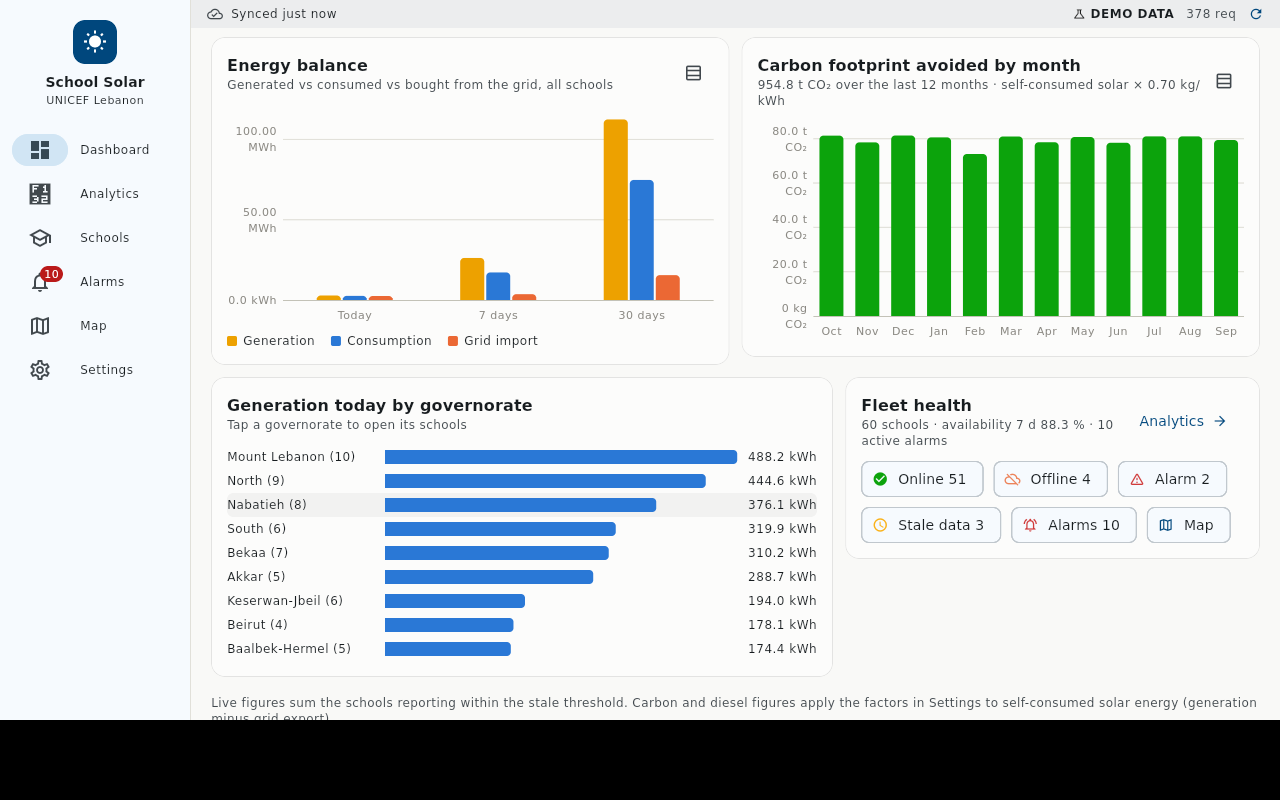
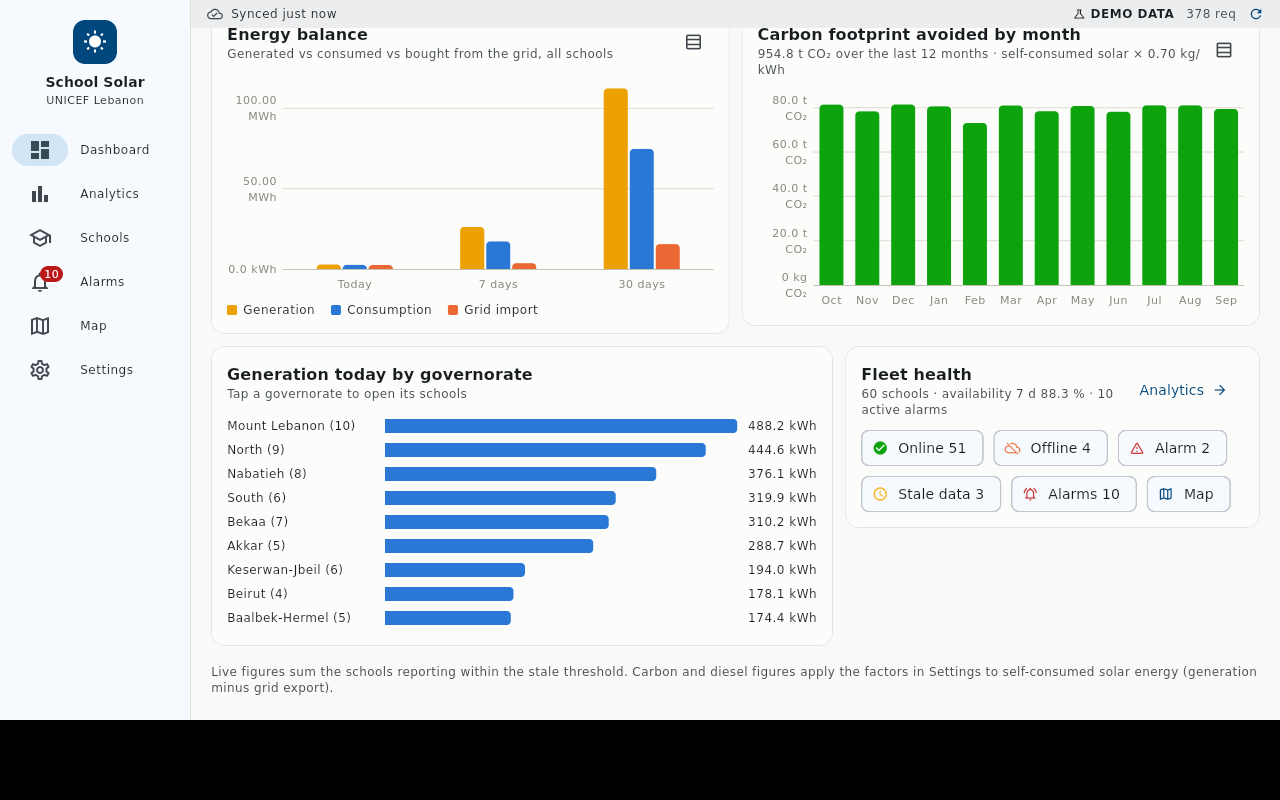
Screenshots for the landing dashboard and analytics tab; README screenshot table
Claude-Session: https://claude.ai/code/session_01CaQ1Ti7UobeCWXTw2r4q8J

diff --git a/README.md b/README.md
@@ -49,9 +49,13 @@ Notes:
 
 ## Screenshots (demo mode, Linux desktop build)
 
-| Dashboard | Schools |
+| Landing dashboard | Landing dashboard (continued) |
+|-------------------|-------------------------------|
+| ![Dashboard](docs/screenshots/dashboard.png) | ![Dashboard 2](docs/screenshots/dashboard_4.png) |
+
+| Analytics | Schools |
 |-----------|---------|
-| ![Dashboard](docs/screenshots/dashboard.png) | ![Schools](docs/screenshots/schools.png) |
+| ![Analytics](docs/screenshots/analytics.png) | ![Schools](docs/screenshots/schools.png) |
 
 | School detail | Alarms |
 |---------------|--------|
@@ -63,13 +67,13 @@ Notes:
 
 | Governorates and attention lists | School detail: today's curve |
 |----------------------------------|------------------------------|
-| ![Governorates](docs/screenshots/dashboard_5.png) | ![Today](docs/screenshots/school_detail_3.png) |
+| ![Governorates](docs/screenshots/analytics_5.png) | ![Today](docs/screenshots/school_detail_3.png) |
 
 | Dark theme |  |
 |------------|--|
 | ![Dashboard dark](docs/screenshots/dashboard_dark.png) | ![School detail dark](docs/screenshots/school_detail_dark.png) |
 
-All 28 captures (light and dark, every screen scrolled) are in `docs/screenshots/`, generated by
+All captures (light and dark, every screen scrolled) are in `docs/screenshots/`, generated by
 `scripts/screenshots.sh` from the Linux desktop build in demo mode with the clock set to 14:00 Beirut time.
 
 ### Credentials
